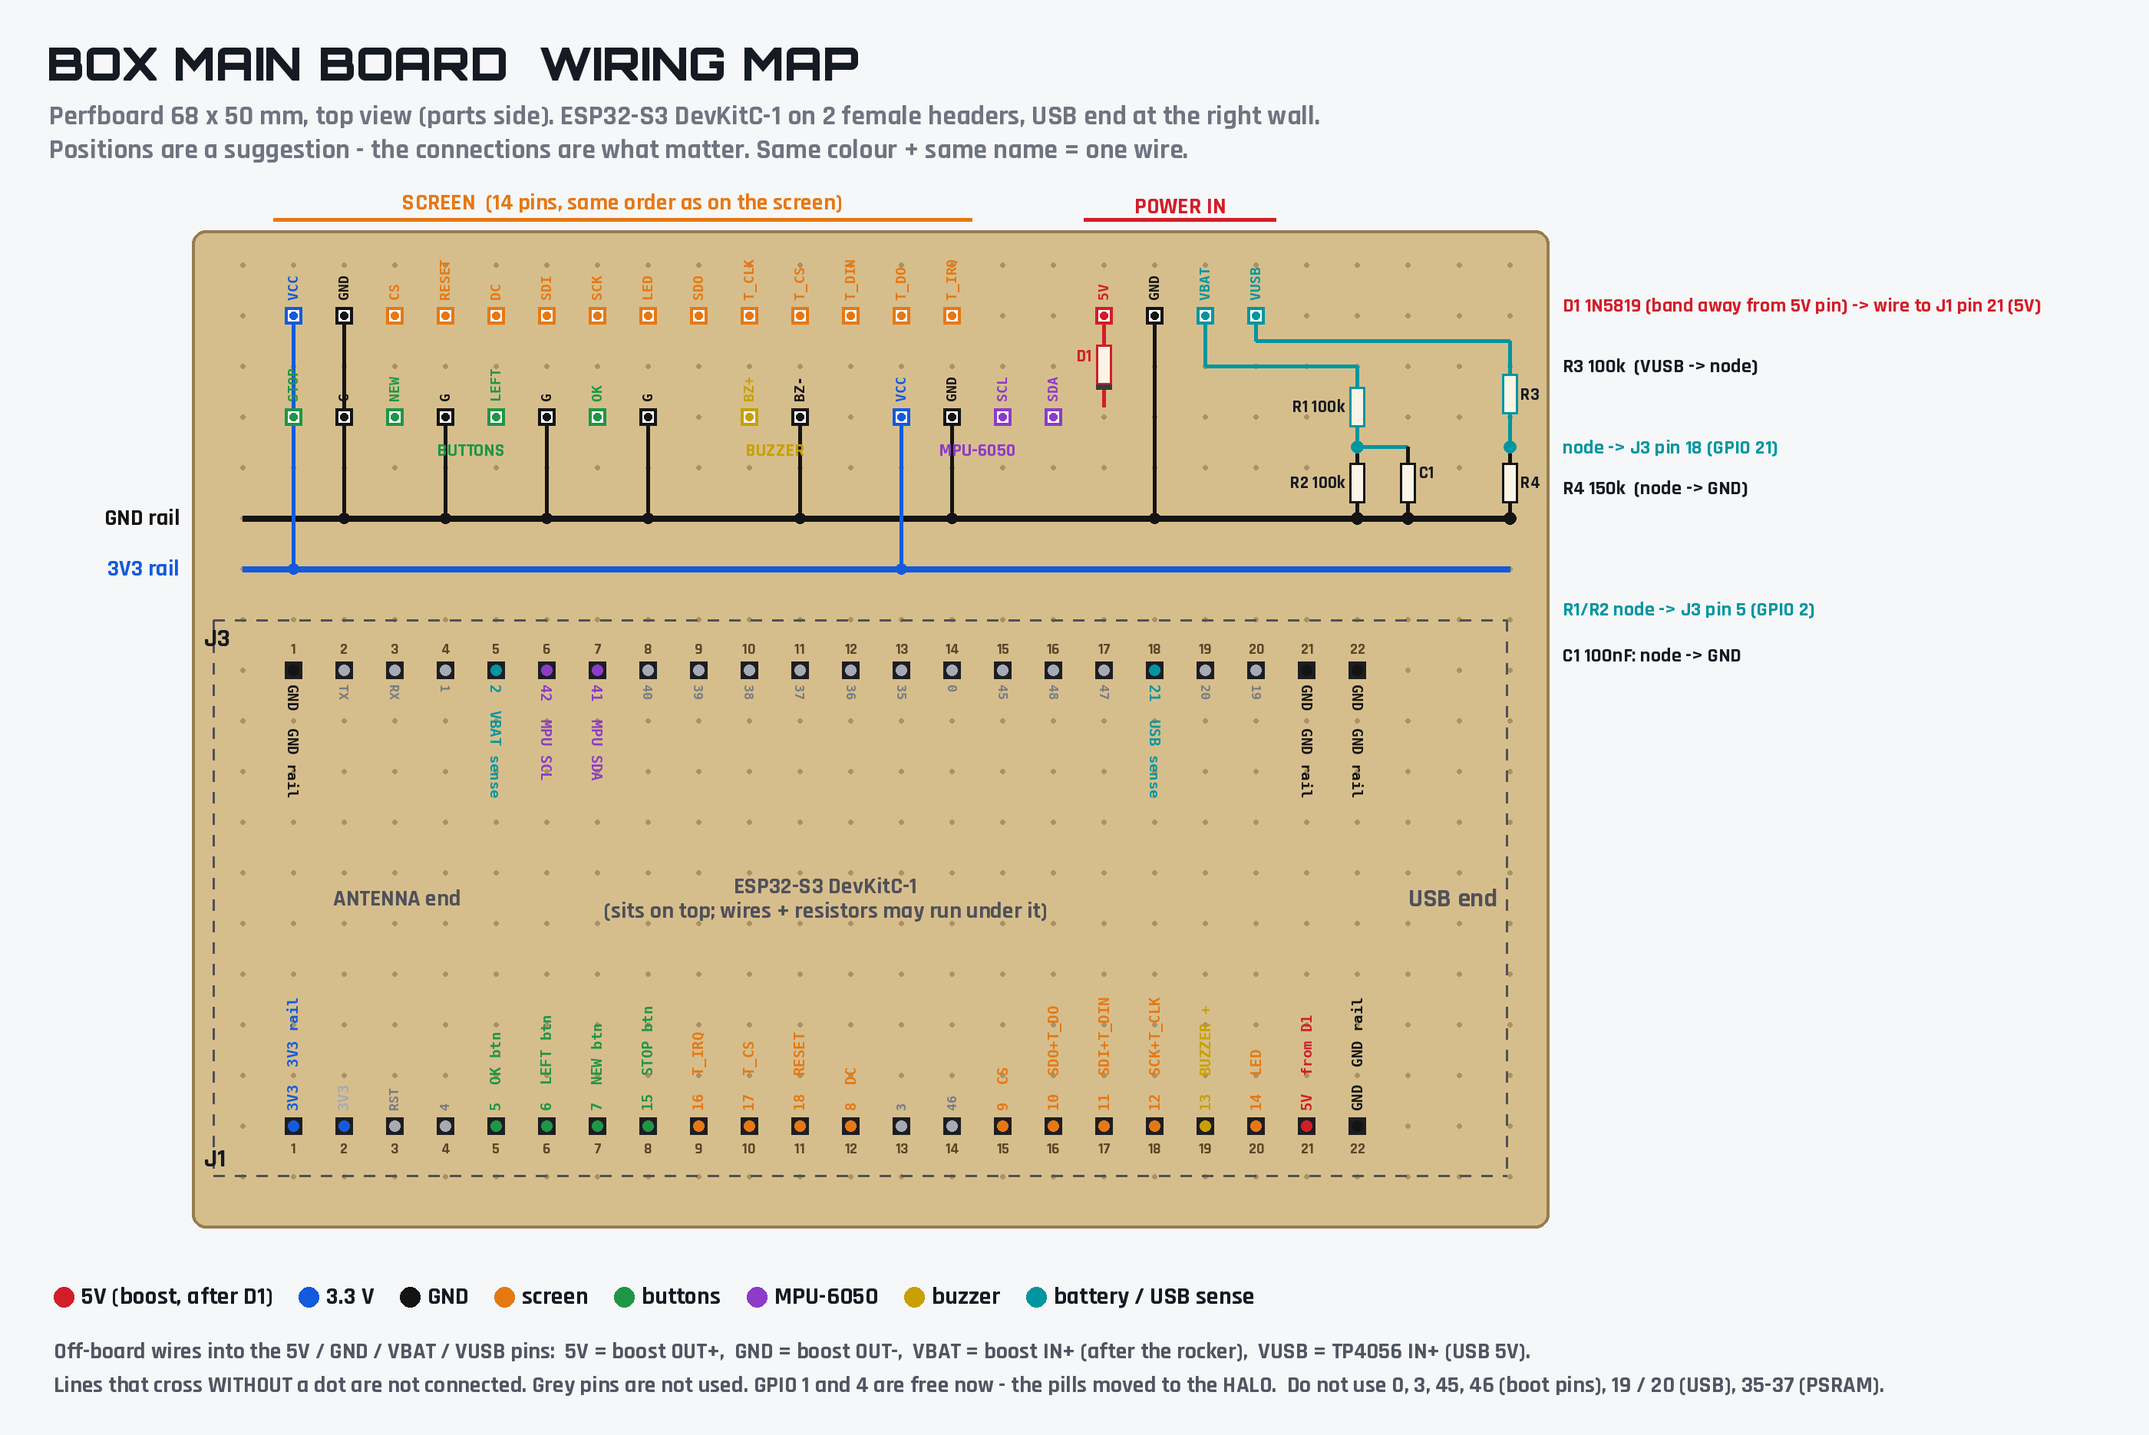
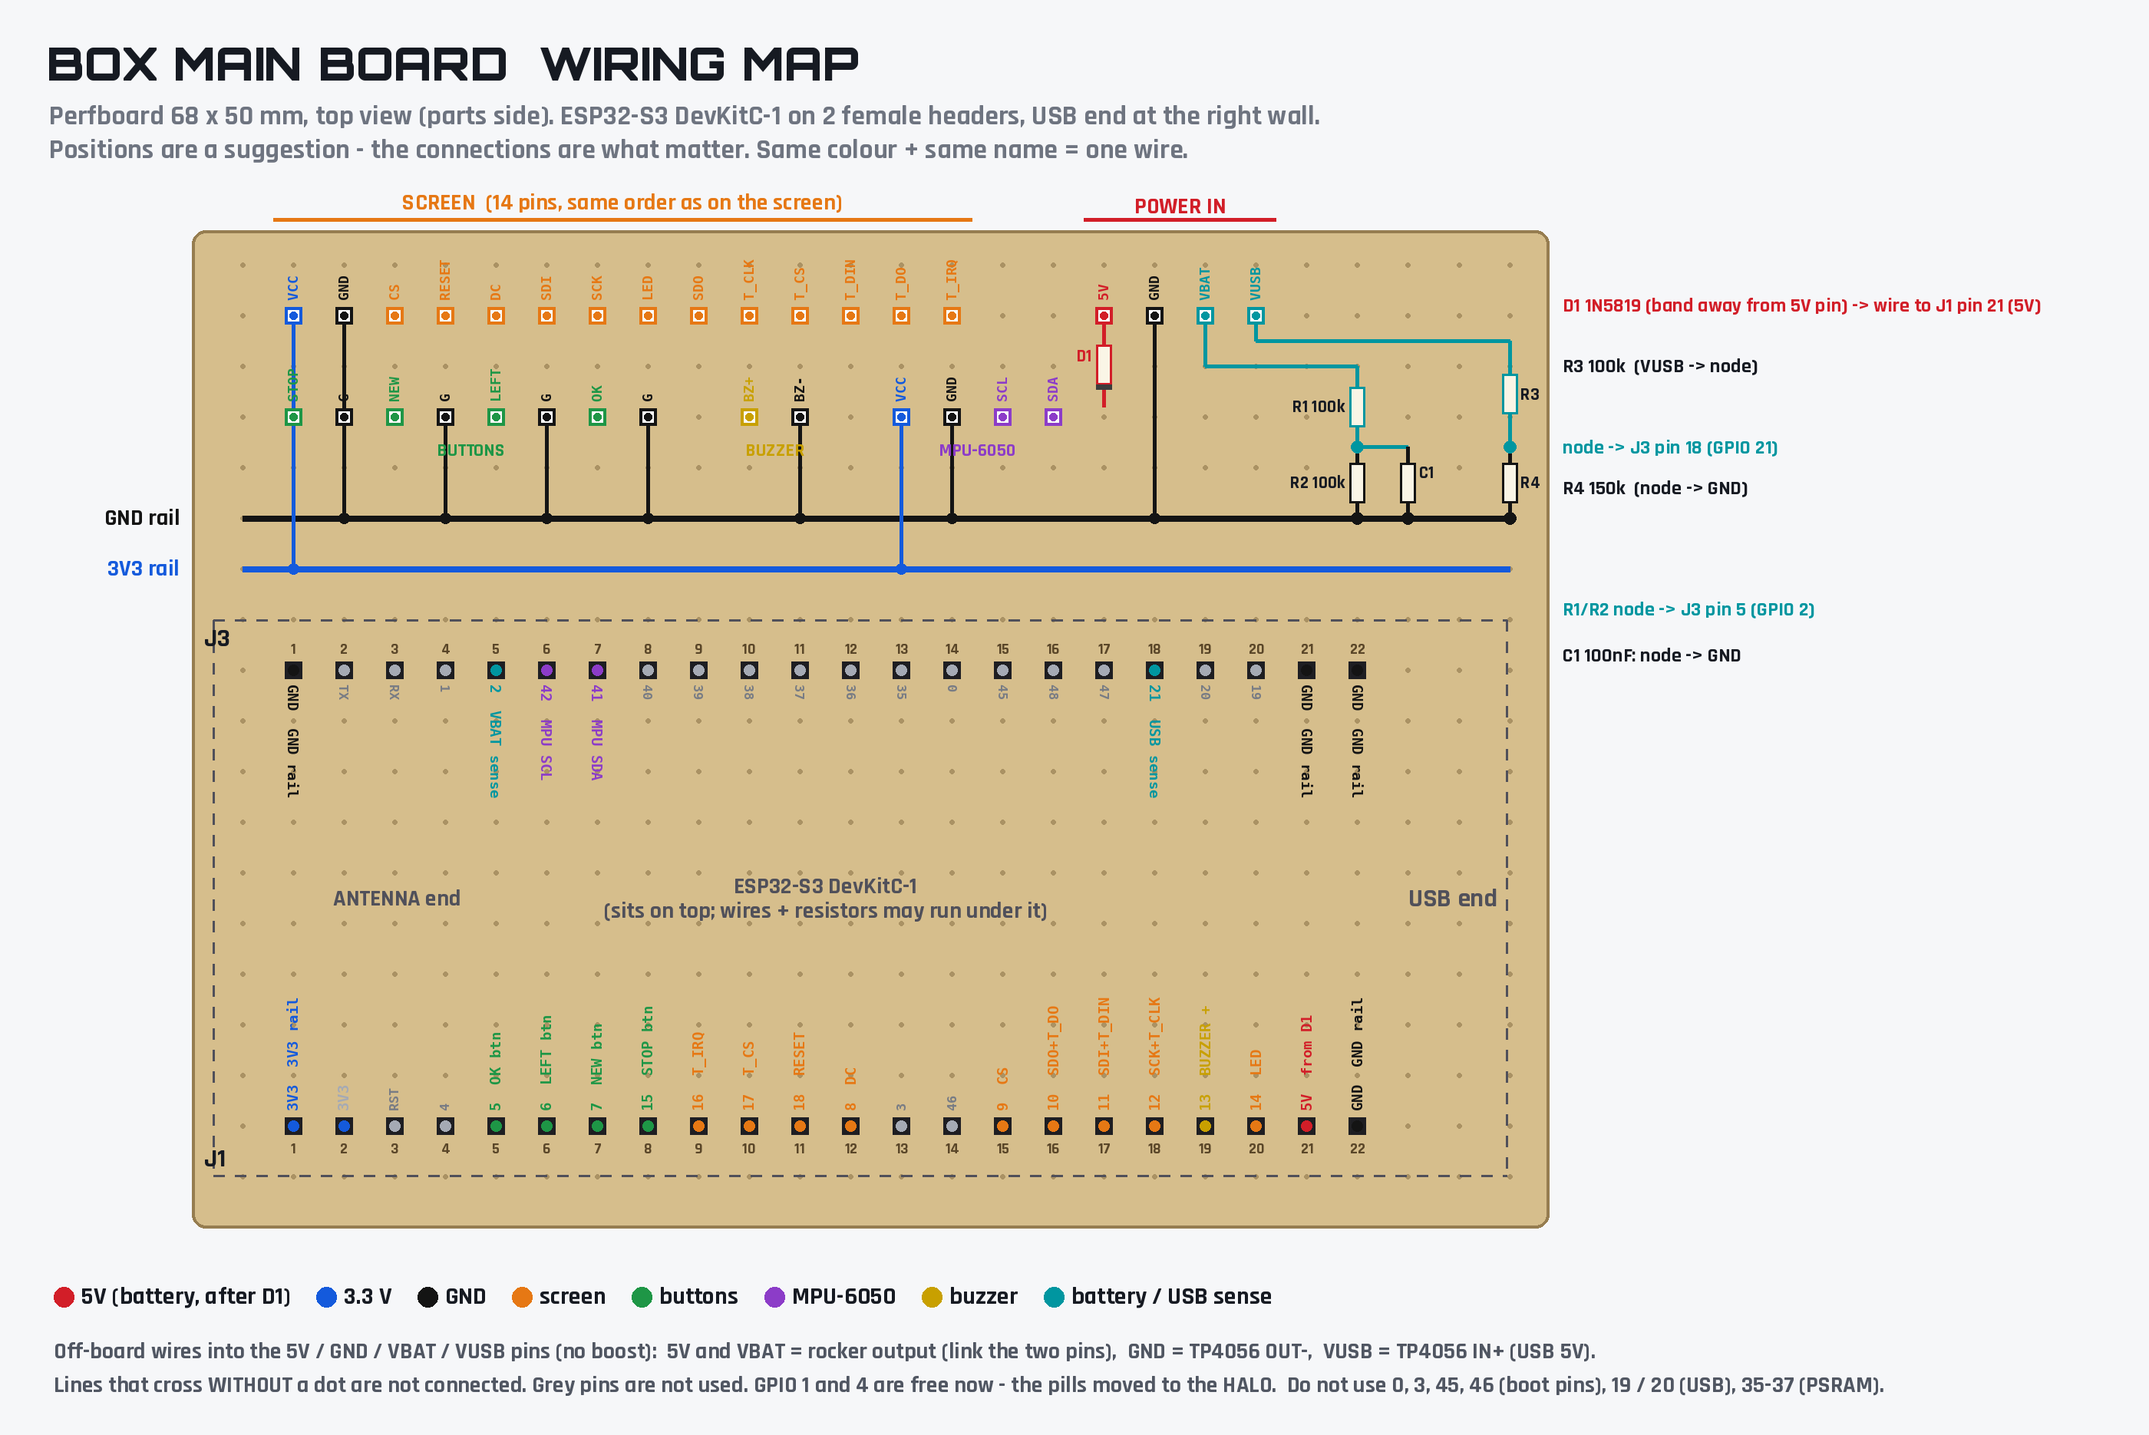
Add submission screenshots, update wiring for no boost

Changed region(s): [[0.1864, 0.8995, 0.7457, 0.9615], [0.0621, 0.8995, 0.1554, 0.9305]]

diff --git a/docs/submission/make_submission.py b/docs/submission/make_submission.py
@@ -1,0 +1,150 @@
+"""Builds the 5 submission screenshots (2400 x 1350) from the renders and wiring sheets in this repo.
+Run from the repo root:  python3 docs/submission/make_submission.py"""
+import os
+from PIL import Image, ImageDraw, ImageFont, ImageChops
+
+FONTS = os.environ.get("NEUROX_FONTS", "/tmp/claude-0/-home-claude/31d76bfd-844e-5c8a-8c3a-6c0a47579976/scratchpad/box3")
+ORB = lambda s: ImageFont.truetype(f"{FONTS}/orbitron900.ttf", s)
+RAJ = lambda s: ImageFont.truetype(f"{FONTS}/rajdhani700.ttf", s)
+W, H = 2400, 1350
+BG = (246, 247, 249); INK = (22, 26, 34); MUT = (104, 110, 124); BLUE = (20, 90, 220); RED = (210, 30, 40)
+LINE = (222, 225, 232)
+BOX, HALO = "hardware/NeuroX_Box_v3", "hardware/NeuroX_HALO_v3"
+OUT = "docs/submission"
+
+
+def load(p): return Image.open(p).convert("RGB")
+
+
+def trim(im, pad=20, tol=10):
+    bg = Image.new("RGB", im.size, im.getpixel((2, 2)))
+    diff = ImageChops.difference(im, bg).convert("L").point(lambda v: 255 if v > tol else 0)
+    b = diff.getbbox()
+    if not b: return im
+    return im.crop((max(0, b[0] - pad), max(0, b[1] - pad), min(im.width, b[2] + pad), min(im.height, b[3] + pad)))
+
+
+def light_only(im):
+    """crop away a dark frame around a light-background render"""
+    b = im.convert("L").point(lambda v: 255 if v > 235 else 0).getbbox()
+    return im.crop((b[0] + 4, b[1] + 4, b[2] - 4, b[3] - 4))
+
+
+def fit(im, w, h):
+    r = min(w / im.width, h / im.height)
+    return im.resize((max(1, int(im.width * r)), max(1, int(im.height * r))), Image.LANCZOS)
+
+
+def canvas(title, sub, n):
+    c = Image.new("RGB", (W, H), BG); d = ImageDraw.Draw(c)
+    d.text((70, 52), title, font=ORB(58), fill=INK)
+    d.text((72, 128), sub, font=RAJ(36), fill=MUT)
+    d.text((W - 70, 64), f"{n} / 5", font=ORB(30), fill=BLUE, anchor="ra")
+    d.text((W - 70, H - 34), "NeuroX v3.1  -  hands-free wheelchair control  -  Gurnihaal Singh", font=RAJ(26), fill=MUT, anchor="rs")
+    return c, d
+
+
+def card(c, d, box, im, cap=None, num=None, fill=(255, 255, 255), pad=24):
+    x0, y0, x1, y1 = box
+    d.rounded_rectangle(box, 22, fill=fill, outline=LINE if sum(fill) > 200 else fill, width=3)
+    capH = 64 if cap else 0
+    if im is not None:
+        if im.getpixel((2, 2)) != fill:          # match the render's background to the card
+            bg = Image.new("RGB", im.size, im.getpixel((2, 2)))
+            mask = ImageChops.difference(im, bg).convert("L").point(lambda v: 255 if v > 6 else 0)
+            base = Image.new("RGB", im.size, fill); base.paste(im, (0, 0), mask); im = base
+        f = fit(im, x1 - x0 - 2 * pad, y1 - y0 - 2 * pad - capH)
+        c.paste(f, (x0 + (x1 - x0 - f.width) // 2, y0 + pad + (y1 - y0 - 2 * pad - capH - f.height) // 2))
+    if cap:
+        cx = x0 + pad
+        if num is not None:
+            d.ellipse([cx, y1 - pad - 42, cx + 42, y1 - pad], fill=BLUE)
+            d.text((cx + 21, y1 - pad - 21), str(num), font=RAJ(28), fill="white", anchor="mm"); cx += 56
+        d.text((cx, y1 - pad - 21), cap, font=RAJ(31), fill="white" if sum(fill) < 200 else INK, anchor="lm")
+
+
+def arrow(d, x0, y0, x1, y1, col=BLUE, w=8, dash=False):
+    import math
+    a = math.atan2(y1 - y0, x1 - x0); L = math.hypot(x1 - x0, y1 - y0)
+    if dash:
+        s = 0
+        while s < L - 30:
+            e = min(s + 26, L - 30)
+            d.line([(x0 + math.cos(a) * s, y0 + math.sin(a) * s), (x0 + math.cos(a) * e, y0 + math.sin(a) * e)], fill=col, width=w)
+            s += 44
+    else:
+        d.line([(x0, y0), (x1 - math.cos(a) * 26, y1 - math.sin(a) * 26)], fill=col, width=w)
+    h = 30
+    d.polygon([(x1, y1), (x1 - h * math.cos(a - 0.45), y1 - h * math.sin(a - 0.45)), (x1 - h * math.cos(a + 0.45), y1 - h * math.sin(a + 0.45))], fill=col)
+
+
+def info(d, box, head, lines, col=BLUE):
+    x0, y0, x1, y1 = box
+    d.rounded_rectangle(box, 22, fill=(255, 255, 255), outline=LINE, width=3)
+    d.rectangle([x0, y0 + 22, x0 + 8, y1 - 22], fill=col)
+    d.text((x0 + 34, y0 + 26), head, font=ORB(30), fill=col)
+    for i, t in enumerate(lines): d.text((x0 + 34, y0 + 82 + i * 40), t, font=RAJ(30), fill=INK)
+
+
+# ---------------- 1. the whole system ----------------
+c, d = canvas("NEUROX  -  HALO + BOX", "Eye blinks and jaw clenches drive a wheelchair. The HALO reads them, the box decides, the chair moves.", 1)
+card(c, d, (70, 190, 1000, 990), trim(load(f"{HALO}/4_renders/view_hero.png")), "HALO  -  EEG / EMG headset, worn", "A")
+card(c, d, (1400, 190, 2330, 760), trim(load(f"{BOX}/4_renders/assembled.png")), "BOX  -  brain of the system, on the armrest", "B")
+# radio link
+arrow(d, 1030, 470, 1370, 470, dash=True)
+d.text((1200, 430), "ESP-NOW wireless", font=ORB(26), fill=BLUE, anchor="mb")
+d.text((1200, 512), "raw signals, 256 Hz", font=RAJ(28), fill=MUT, anchor="mt")
+d.text((1200, 548), "16 packets / s", font=RAJ(28), fill=MUT, anchor="mt")
+arrow(d, 1865, 780, 1865, 860, dash=True)
+d.rounded_rectangle([1460, 870, 2270, 990], 22, fill=INK)
+d.text((1865, 905), "WHEELCHAIR  (RC-car test rig)", font=ORB(26), fill="white", anchor="mm")
+d.text((1865, 952), "forward / reverse / stop, 80 ms heartbeat", font=RAJ(27), fill=(190, 196, 210), anchor="mm")
+info(d, (70, 1020, 800, 1290), "HALO", ["ESP32-C3 SuperMini + 2 BioAmp EXG Pills", "6 snap electrodes on screw-lock stems", "1000 mAh LiPo, nothing wired to the user"])
+info(d, (835, 1020, 1565, 1290), "BOX", ['ESP32-S3, 2.8" ST7789 touch screen', "4 buttons incl. red STOP, buzzer, MPU-6050", "2000 mAh LiPo, USB-C charging"])
+info(d, (1600, 1020, 2330, 1290), "CONTROL", ["clench = forward,  blink = reverse", "close eyes 3 s = unlock,  auto-locks idle", "STOP button always wins"], RED)
+c.save(f"{OUT}/1_NeuroX_system.png")
+
+# ---------------- 2. the box ----------------
+c, d = canvas("NEUROX BOX  v3", "163 x 101 x 48 mm, 3D printed in 4 colours, no supports. ESP32-S3 + touch screen + 4 buttons on a perfboard.", 2)
+card(c, d, (70, 190, 1250, 1290), trim(load(f"{BOX}/4_renders/back_right.png")), "Assembled: STOP, NEW + arrow buttons, screen window", 1)
+card(c, d, (1290, 190, 2330, 560), trim(load(f"{BOX}/4_renders/exploded.png")), "Exploded: base, lid, caps, STOP guard", 2)
+card(c, d, (1290, 580, 2330, 950), trim(load(f"{BOX}/4_renders/top.png")), "Top: screen, N dial logo, STOP", 3)
+card(c, d, (1290, 970, 2330, 1290), trim(load(f"{BOX}/4_renders/buttons_section.png"), tol=40), "Buttons cut through: caps on 12 x 12 switches", 4, pad=16)
+c.save(f"{OUT}/2_NeuroX_box.png")
+
+# ---------------- 3. the HALO ----------------
+c, d = canvas("NEUROX HALO  v3", "Adjustable printed headset: 6 electrode stems slide in 2 mm steps and lock with an M3 knob. Ratchet dial at the back.", 3)
+card(c, d, (70, 190, 830, 960), trim(load(f"{HALO}/4_renders/view_front.png")), "Front: crest, nose + forehead pads", 1)
+card(c, d, (860, 190, 1620, 960), light_only(load(f"{HALO}/4_renders/view_lock_exploded.png")), "Close-up: stem, M3 knob, 2 mm grooves", 2)
+card(c, d, (1650, 190, 2330, 960), trim(load(f"{HALO}/4_renders/view_back.png")), "Back: hub, dial, cover", 3)
+card(c, d, (70, 990, 2330, 1290), trim(load(f"{HALO}/4_renders/how_it_locks_section.png")), None, pad=20)
+d.ellipse([100, 1012, 142, 1054], fill=BLUE); d.text((121, 1033), "4", font=RAJ(28), fill="white", anchor="mm")
+d.text((100, 1072), "Stem lock, cut through", font=RAJ(31), fill=INK); d.text((100, 1112), "loose: slides", font=RAJ(28), fill=MUT); d.text((100, 1148), "tight: tooth in groove", font=RAJ(28), fill=MUT)
+c.save(f"{OUT}/3_NeuroX_HALO.png")
+
+# ---------------- 4. schematics ----------------
+c, d = canvas("SCHEMATICS", "Box: ESP32-S3 + screen + buttons + buzzer + MPU-6050 + power.   HALO: ESP32-C3 + 2 BioAmp EXG Pills + power.", 4)
+card(c, d, (70, 190, 1290, 1290), load(f"{BOX}/wiring_v3.1/NeuroX_Box_S3_board_wiring.png"), "Box: ESP32-S3 DevKitC-1", 1, fill=BG, pad=16)
+card(c, d, (1320, 190, 2330, 1290), load(f"{BOX}/wiring_v3.1/NeuroX_HALO_C3_board_wiring.png"), "HALO: ESP32-C3 SuperMini", 2, fill=BG, pad=16)
+c.save(f"{OUT}/4_NeuroX_schematics.png")
+
+# ---------------- 5. perfboard + UI ----------------
+c, d = canvas("PERFBOARD + FIRMWARE UI", "Hand-wired 68 x 50 mm perfboard in the box, and the touch UI the box firmware draws (320 x 240).", 5)
+card(c, d, (70, 190, 1420, 1290), load(f"{BOX}/wiring_v3.1/NeuroX_Box_main_board_wiring.png"), "Box perfboard map: every wire, colour coded", 1, fill=BG, pad=16)
+ui = load("docs/box_ui/NeuroX_Box_UI_screens.png")
+cw, ch = ui.width / 4, ui.height / 5
+
+
+def cell(r, k):
+    im = ui.crop((int(k * cw), int(r * ch), int((k + 1) * cw), int((r + 1) * ch)))
+    g = im.convert("L").point(lambda v: 255 if v < 60 else 0)   # the dark screen area
+    b = g.getbbox(); return im.crop(b)
+
+
+shots = [(cell(0, 2), "Calibrate: blink x5"), (cell(1, 2), "Locked"), (cell(2, 1), "Clench: FORWARD"), (cell(2, 2), "Blink: REVERSE")]
+xs, ys = (1450, 1900), (190, 740)
+for i, (im, t) in enumerate(shots):
+    x, y = xs[i % 2], ys[i // 2]
+    card(c, d, (x, y, x + 430 + (0 if i % 2 else 0), y + 520), im, t, i + 2, fill=(255, 255, 255), pad=18)
+c.save(f"{OUT}/5_NeuroX_perfboard_and_UI.png")
+print("ok")

diff --git a/hardware/NeuroX_Box_v3/wiring_v3.1/draw_box_schematic.py b/hardware/NeuroX_Box_v3/wiring_v3.1/draw_box_schematic.py
@@ -50,16 +50,13 @@ L([(666, PR - 4), (744, PR - 38)], C["bat"]); d.ellipse([742, PR - 8, 758, PR + 
 lab(700, PR - 52, "ROCKER", a="mb", s=24)
 L([(758, PR), (860, PR)], C["bat"]); dot(810, PR, C["bat"])
 L([(810, PR), (810, PR - 70)], C["bat"], 5); tag(810 - 20, PR - 92, "VBAT", "r", 24)
-# MT3608
-block(860, PR - 110, 1130, PR + 150, "MT3608", "set to 5.1 V FIRST")
-lab(872, PR, "IN+"); lab(872, PR + 90, "IN-"); lab(1118, PR, "OUT+", a="rm"); lab(1118, PR + 90, "OUT-", a="rm")
-L([(860, PR + 90), (830, PR + 90), (830, PR + 160)], C["gnd"], 5); tag(830 - 20, PR + 182, "GND", "r", 24)
-# 100 uF across the output
-L([(1130, PR), (1290, PR)], C["v5"]); dot(1190, PR, C["v5"])
-L([(1130, PR + 90), (1190, PR + 90)], C["gnd"]); L([(1190, PR), (1190, PR + 30)], C["v5"], 5)
-capv(1190, PR + 45, "", C["v5"]); L([(1190, PR + 57), (1190, PR + 90)], C["gnd"], 5); dot(1190, PR + 90, C["gnd"])
-L([(1190, PR + 90), (1190, PR + 130)], C["gnd"], 5); tag(1190 - 20, PR + 152, "GND", "r", 24)
-lab(1222, PR + 45, "100 uF", s=24); lab(1222, PR + 70, "+ to OUT+", MUT, s=20)
+# no boost: rocker -> D1 -> 5V pin (the S3's own regulator makes 3.3 V)
+L([(860, PR), (1290, PR)], C["bat"]); dot(1190, PR, C["bat"])
+lab(1000, PR - 30, "no boost converter", MUT, "mb", 22)
+L([(1190, PR), (1190, PR + 30)], C["bat"], 5)
+capv(1190, PR + 45, "", C["bat"]); L([(1190, PR + 57), (1190, PR + 130)], C["gnd"], 5)
+tag(1190 - 20, PR + 152, "GND", "r", 24)
+lab(1222, PR + 45, "100 uF", s=24); lab(1222, PR + 70, "+ to VBAT", MUT, s=20)
 # D1
 d.polygon([(1290, PR - 22), (1290, PR + 22), (1334, PR)], fill=C["v5"]); L([(1336, PR - 22), (1336, PR + 22)], C["v5"], 7)
 lab(1312, PR - 34, "D1 1N5819  (band -> ESP)", C["v5"], "mb", 24)
@@ -124,10 +121,10 @@ lab(SWX - 220, PY(4) - 44, "BUTTONS  (12 x 12 switch, 2 DIAGONAL pins)", C["btn"
 
 # ---- screen (J1 9..12, 15..18, 20) + buzzer (J1 19) ----
 SX0, SX1 = 420, 860
-srow = {8: "T_IRQ  (14)", 9: "T_CS  (11)", 10: "RESET  (4)", 11: "DC  (5)", 14: "CS  (3)", 15: "SDO (9) + T_DO (13)",
+srow = {8: "T_IRQ  (14)", 9: "T_CS  (11)", 10: "RESET  (4)", 11: "DC  (5)", 14: "CS  (3)", 15: "T_DO (13)   SDO open",
         16: "SDI (6) + T_DIN (12)", 17: "SCK (7) + T_CLK (10)", 19: "LED  (8)"}
 d.rounded_rectangle([SX0, PY(8) - 36, SX1, PY(19) + 120], 16, fill=(255, 244, 232), outline=C["scr"], width=3)
-d.text(((SX0 + SX1) / 2, PY(19) + 50), "SCREEN  2.8\" ILI9341", font=RAJ(32), fill=INK, anchor="mt")
+d.text(((SX0 + SX1) / 2, PY(19) + 50), "SCREEN  2.8\" ST7789", font=RAJ(32), fill=INK, anchor="mt")
 d.text(((SX0 + SX1) / 2, PY(19) + 86), "14-pin header, SPI + touch", font=RAJ(24), fill=MUT, anchor="mt")
 for i, t in srow.items():
     y = PY(i); L([(SX1, y), (DK0 - 12, y)], C["scr"])
@@ -138,7 +135,7 @@ for y, pn, net in ((PY(8) - 150 + 98, "VCC (1)", "3V3"), (PY(8) - 150 + 98 + 0, 
 for k, (pn, net) in enumerate((("VCC (1)", "3V3"), ("GND (2)", "GND"))):
     y = PY(12) + k * 50
     d.text((SX0 + 14, y), pn, font=RAJ(25), fill=INK, anchor="lm"); L([(SX0, y), (SX0 - 50, y)], NETCOL[net]); tag(SX0 - 50, y, net, "l")
-d.multiline_text((SX0 + 14, PY(14) - 14), "join SDO+T_DO,\nSDI+T_DIN and\nSCK+T_CLK\nat the header", font=RAJ(22), fill=MUT, anchor="la")
+d.multiline_text((SX0 + 14, PY(14) - 14), "join SDI+T_DIN\nand SCK+T_CLK\nat the header;\nleave SDO open", font=RAJ(22), fill=MUT, anchor="la")
 # buzzer on row 19 (between SCK and LED, no screen pin there)
 yb = PY(18)
 L([(DK0 - 12, yb), (1080, yb)], C["bz"]); d.ellipse([1000, yb - 24, 1060, yb + 24], fill=(40, 40, 44)); d.text((1030, yb), "BZ", font=RAJ(22), fill="white", anchor="mm")
@@ -166,10 +163,10 @@ lab(R0 + 70, PY(10), "GPIO 1 + 4: free now", MUT, "lm", 24); lab(R0 + 70, PY(11)
 ny = dy1 + 110
 notes = [("Screen VCC on 3.3 V:", " safe whether or not the J1 jumper on the screen board is bridged."),
          ("LED (8) on GPIO 14:", " fine if your screen has a small 3-leg transistor by the LED pin. No transistor? LED to 3V3 instead."),
-         ("Before plugging the ESP32 in:", " 5.1 V at the boost OUT, ~4.8 V after D1, 3V3 to GND not shorted, VBAT/2 about half the battery."),
+         ("Before plugging the ESP32 in:", " ~3.9 V after D1 on a full cell, 3V3 to GND not shorted, VBAT/2 about half the battery."),
          ("USB into the ESP32:", " rocker OFF first. The box has no wire to the person, so charging while the HALO is worn is fine.")]
 for i, (a, b) in enumerate(notes):
     d.text((64, ny + i * 48), a, font=RAJ(31), fill=C["v5"] if i in (2, 3) else INK)
     d.text((64 + d.textlength(a, font=RAJ(31)), ny + i * 48), b, font=RAJ(31), fill=(80, 86, 98))
 sh = sh.crop((0, 0, W, ny + len(notes) * 48 + 40))
-sh.save(f"{SP}/wiring/NeuroX_Box_S3_board_wiring.png"); print(sh.size)
+sh.save("NeuroX_Box_S3_board_wiring.png"); print(sh.size)

diff --git a/hardware/NeuroX_Box_v3/wiring_v3.1/draw_box_board.py b/hardware/NeuroX_Box_v3/wiring_v3.1/draw_box_board.py
@@ -150,12 +150,12 @@ d.text((lx2, px(0, 11.3 * P)[1]), "C1 100nF: node -> GND", font=RAJ(26), fill=IN
 # ---- legend ----
 ly = OY + BH * S + 90
 lx = 70
-for k, t in (("v5", "5V (boost, after D1)"), ("v33", "3.3 V"), ("gnd", "GND"), ("scr", "screen"), ("btn", "buttons"),
+for k, t in (("v5", "5V (battery, after D1)"), ("v33", "3.3 V"), ("gnd", "GND"), ("scr", "screen"), ("btn", "buttons"),
              ("mpu", "MPU-6050"), ("bz", "buzzer"), ("sense", "battery / USB sense")):
     d.ellipse([lx, ly - 13, lx + 26, ly + 13], fill=C[k]); d.text((lx + 36, ly), t, font=RAJ(32), fill=INK, anchor="lm")
     lx += 70 + int(d.textlength(t, font=RAJ(32)))
-notes = ["Off-board wires into the 5V / GND / VBAT / VUSB pins:  5V = boost OUT+,  GND = boost OUT-,  VBAT = boost IN+ (after the rocker),  VUSB = TP4056 IN+ (USB 5V).",
+notes = ["Off-board wires into the 5V / GND / VBAT / VUSB pins (no boost):  5V and VBAT = rocker output (link the two pins),  GND = TP4056 OUT-,  VUSB = TP4056 IN+ (USB 5V).",
          "Lines that cross WITHOUT a dot are not connected. Grey pins are not used. GPIO 1 and 4 are free now - the pills moved to the HALO.  Do not use 0, 3, 45, 46 (boot pins), 19 / 20 (USB), 35-37 (PSRAM)."]
 for i, n in enumerate(notes): d.text((70, ly + 52 + i * 44), n, font=RAJ(30), fill=(80, 86, 98))
 sh = sh.crop((0, 0, W, ly + 52 + len(notes) * 44 + 40))
-sh.save(f"{SP}/wiring/NeuroX_Box_main_board_wiring.png"); print(sh.size)
+sh.save("NeuroX_Box_main_board_wiring.png"); print(sh.size)
